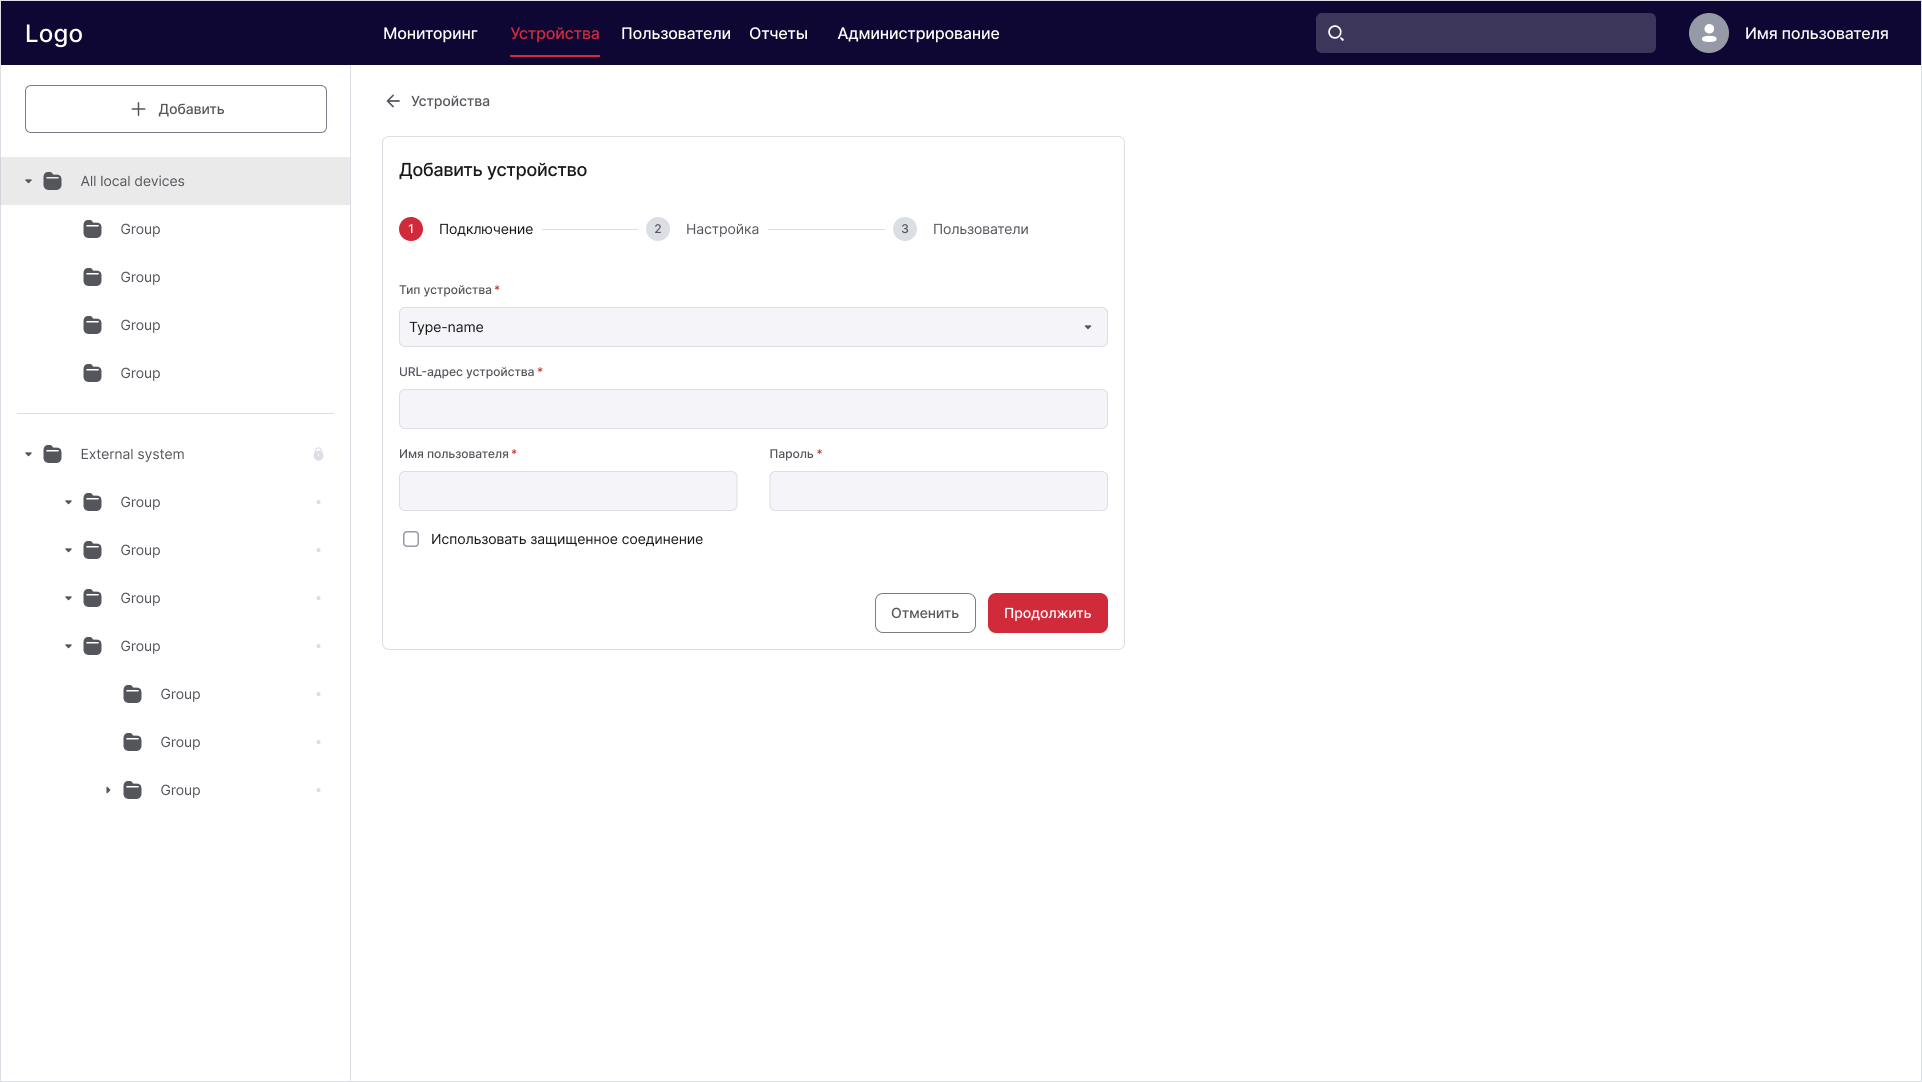
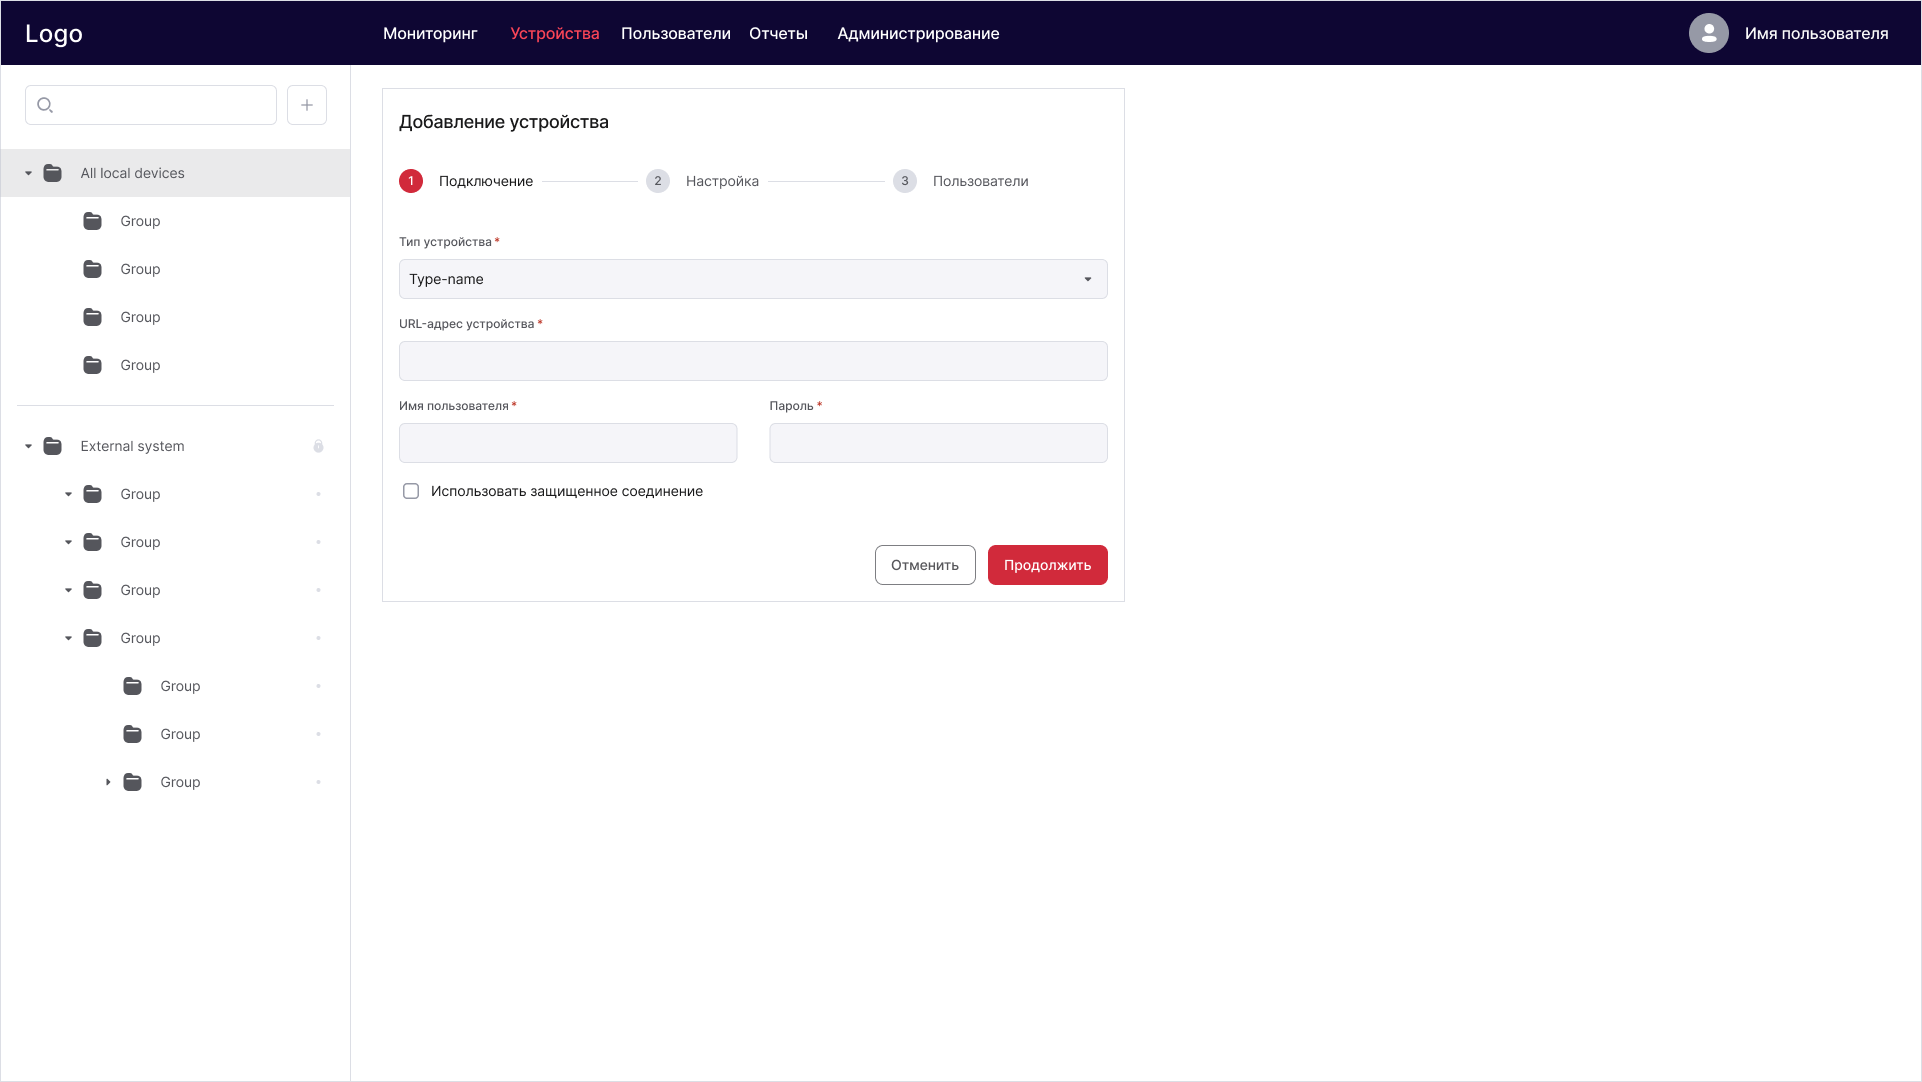
test

diff --git a/docs/01-case.md b/docs/01-case.md
@@ -1,8 +1,7 @@
 ---
 date:
-  created: 2023-12-31
-  updated: 2024-01-02
-readtime: 15
+  created: 2024-11-22
+  updated: 2024-11-24
 
 #search:
   #exclude: true
@@ -27,7 +26,9 @@ sort: "1"
 Я работала продуктовым дизайнером в компании, которая разрабатывала собственные цифровые решения и занималась их внедрением. Один из продуктов компании -  система видеонаблюдения.
 
 В компанию обратился клиент с задачей автоматизировать пропускной режим на своем предприятии. 
+
 Какие цели стояли: бесконтактный проход сотрудников через турникеты, бесконтактное измерение температуры, контроль рабочего времени, организация временных пропусков.
+
 Глобально требовалось интегрировать систему видеонаблюдения, разработанную в компании, с существующей у клиента системой Sigur, настроить аутентификацию через Active Directory и доработать функциональность с формированием отчетов.  
 
 Старый интерфейс системы видеонаблюдения не предусматривал масштабируемость. И было принято решение полностью переработать интерфейс продукта.  
@@ -59,7 +60,9 @@ sort: "1"
 
 И вот я приступила к работе над интерфейсами первого этапа.
 
-1. Я начала с изучения существующей версии продукта. Установила продукт и попробовала самостоятельно выполнить первые настройки, руководствуясь документацией пользователя. 
+1. Я начала с изучения существующей версии продукта. Установила продукт и попробовала самостоятельно выполнить первые настройки, руководствуясь документацией пользователя.
+    
+    Вот так выглядел интерфейс приложения, которое требовалось доработать:
 
     ![Старый интерфейс](./images/01-case-old-version.png "Старый интерфейс")
 
@@ -86,7 +89,7 @@ sort: "1"
    
     В моем представлении навигация системы должна была состоять из двух уровней.
  
-    - Первый уровень - выбор раздела. 
+    - **Первый уровень** - выбор раздела. 
      
         Предполагались 4 раздела - Устройства, Пользователи, Администрирование и Мониторинг. 
       
@@ -94,18 +97,22 @@ sort: "1"
 
         На предварительных обсуждениях ЛПР ссылался на систему конкурента, в которой навигация первого уровня вынесена в верхнюю панель. При проектировании я учла этот факт. И подготовила первый вариант с навигацией, размещенной в верхней панели, а также в качестве альтернативы - второй вариант с навигацией в левой панели.
 
-        ![2 варианта навигации](./images/01-case-navigation.png "2 варианта навигации")
+        ![Концептуальный макет](./images/01-case-navigation.png "Концептуальный макет")
  
 
-    - Второй уровень - выбор группы. 
+    - **Второй уровень** - выбор группы. 
 
         По функциональным требованиям в системе могут отображаться группы, которые были созданы локально, и группы, полученные из внешних систем. 
         
         У меня было несколько идей по проектированию групп, но поскольку не было возможности и времени проводить исследования, мы с проджект-менеджером решили заимствовать опыт конкурентов. Навигацию второго уровня мы разместили в левой панели. Локальные и внешние группы разбили на два отдельных иерархических дерева. 
         
-        Далее мы рассматривали несколько вариантов размещения кнопки для добавления новых сущностей: на панели с названием дерева и отдельно над деревьями. В конечном итоге было принято разместить кнопку над деревьями.
+        Далее мы рассматривали несколько вариантов размещения глобального поиска и кнопки для добавления новых сущностей. 
+        
+        Я подготовила 2 варианта: 
 
-        _**Дисклеймер**. От контекстного меню и от действия с группами в боковом меню было решено отказаться._
+          - вынести поиск на верхнюю панель, а кнопку "Добавить" разместить в боковой панели на панели,
+          - оставить поиск и кнопку "Добавить" в левой панели. 
+
 
         ![Концептуальный макет](./images/01-case-navigation4.png "Концептуальный макет")        
 
@@ -133,7 +140,7 @@ sort: "1"
 
     - **Поиск**. По требованиям поиск должен работать по одному атрибуту - “Название”. Поэтому для поиска я выбрала стандартный компонент в виде инпута.
 
-    - **Пагинация или бесконечная прокрутка?** К решению этого вопросам был привлечен тим-лид команды разработки. В результате мы остановились на “бесконечной прокрутке”.
+    - **Пагинация или бесконечная прокрутка?** К решению этого вопросам был привлечен тимлид команды разработки. В результате мы остановились на “бесконечной прокрутке”.
         
         ![Концептуальный макет](./images/01-case-navigation3.png "Концептуальный макет")   
    
@@ -145,13 +152,15 @@ sort: "1"
 
 4. **Форма создания объекта**. 
     
-    По требованиям система должна предоставить возможность подключить новое устройство, создать нового пользователя и новую группу. Поля формы можно было разбить на несколько логических блоков. Это позволило представить форму в виде пошагового мастера. По аналогии с формой просмотра я решила выводить этот мастер с переходом на новую страницу 
+    По требованиям система должна предоставить возможность подключить новое устройство, создать нового пользователя и новую группу. Поля формы можно было разбить на несколько логических блоков. Это позволило представить форму в виде пошагового мастера. По аналогии с формой просмотра я решила выводить этот мастер с переходом на новую страницу. 
 
 ### Первая итерация согласований
 
 Далее я вышла на согласование концептуального макета с командой. 
 
-Не буду останавливаться на описании этого этапа. С ним не возникло сложностей. Все мои предложения были приняты ЛПР. Что касается навигации, решено было остановиться на первом варианте с размещением навигации в верхней панели.
+Не буду останавливаться на описании этого этапа. С ним не возникло сложностей. Все мои предложения были приняты ЛПР. Что касается навигации, решено было остановиться на первом варианте с размещением навигации в верхней панели, а поиск и кнопку "Добавить" оставить в левой панели.
+
+_**Дисклеймер.** Я не упоминаю про контекстное меню и действия с группами в боковой панели. Я рассматривала эту функциональность, но для первой версии системы было решено от нее отказаться._
 
 ### UI-kit
 
@@ -200,12 +209,12 @@ sort: "1"
 6. **Действия с элементами списка**.
     
     - Одиночные действия вынесли в виде привычной кнопки-иконки “Три точки”, при клике на которую открывается выпадающее меню с действиями.
-    
-    - Групповые действия. Я выяснила, что пользователи редко обращаются к сценариям с групповыми действиями. Кроме того, групповые действия доступны не всем ролям в системе. Поэтому я предложила вызывать кнопки действий при проставлении отметки чекбоксом.  А для ролей, для которых эти действия недоступны, чекбоксы скрыть из интерфейса.
- 
-        ![Таблицы](./images/01-case-table-device-actions-more.png "Таблица пользователей")
 
-        ![Таблицы](./images/01-case-table-device-actions.png "Таблица пользователей")
+        ![Таблицы](./images/01-case-table-device-actions-more.png "Одиночные действия")
+
+    - Групповые действия. Я выяснила, что пользователи редко обращаются к сценариям с групповыми действиями. Кроме того, групповые действия доступны не всем ролям в системе. Поэтому я предложила вызывать кнопки действий при проставлении отметки чекбоксом.  А для ролей, для которых эти действия недоступны, чекбоксы скрыть из интерфейса.
+
+        ![Таблицы](./images/01-case-table-device-actions.png "Групповые действия")
 
 ### Проработка форм для создания объектов
 
@@ -291,6 +300,4 @@ sort: "1"
 ## Назад из будущего
 
 На начало 2022 года система успешно прошла все тесты и была внедрена на предприятии клиента. К системе были подключены терминалы доступа с поддержкой технологии распознавания лиц и обнаружением людей с повышенной температурой тела. 
-
-К сожалению, у меня нет информации о положении дел на текущий момент.
 
